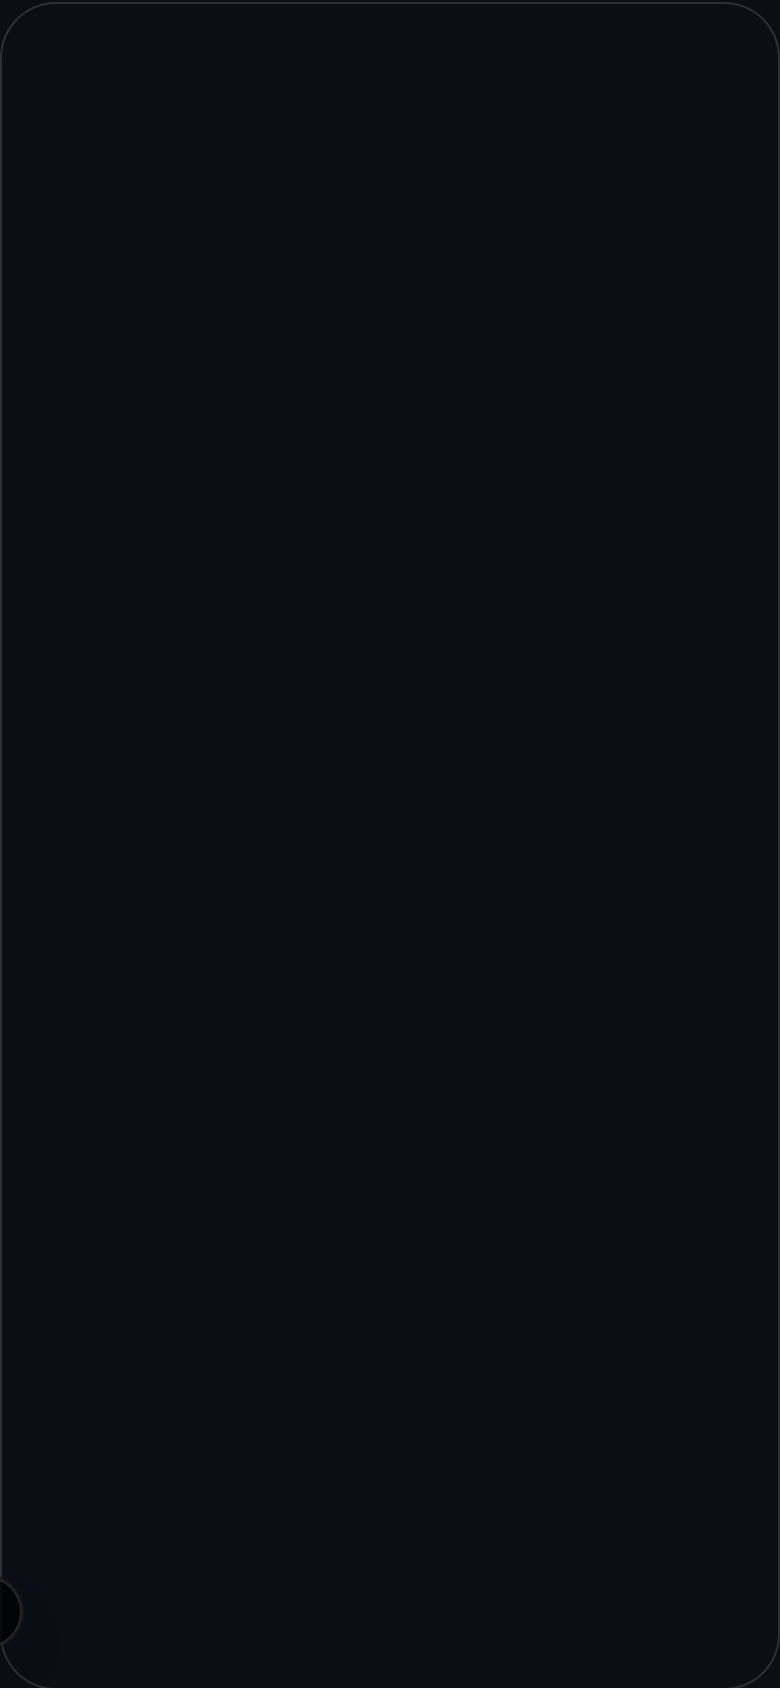
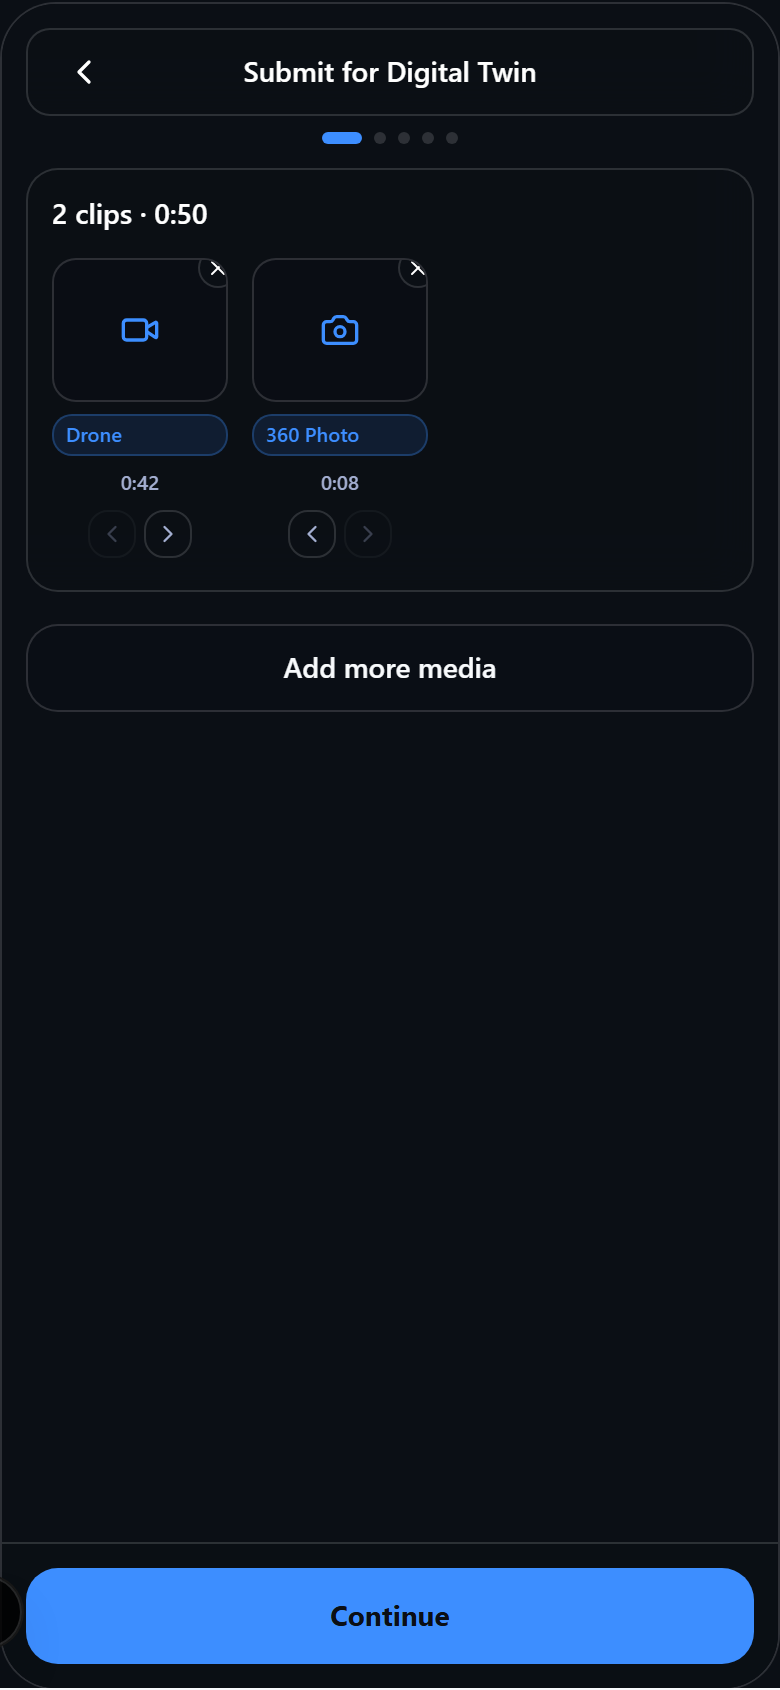
fix(marketing): twin demo shows real UI (review + wizard) not blank frame
Twin recording demo frame was blank (headless has no camera). Switched the twin
walkthrough to the two screens that render clean deterministic UI — submit/review
(clips) and submission wizard (space + credits). Dropped upload frame (dev mock label).

diff --git a/lib/marketing/homepage-content.ts b/lib/marketing/homepage-content.ts
@@ -133,20 +133,14 @@ export const MARKETING_APPS: MarketingAppContent[] = [
       {
         image: "/marketing/demo/twin-1-record.png",
         tapX: 50,
-        tapY: 86,
-        caption: "Record while you walk — the guide keeps you on track",
+        tapY: 90,
+        caption: "Your walk comes in as a 3D scan",
       },
       {
         image: "/marketing/demo/twin-2-ghost.png",
         tapX: 50,
-        tapY: 86,
-        caption: "Add clips — the overlay shows where you left off",
-      },
-      {
-        image: "/marketing/demo/twin-3-review.png",
-        tapX: 50,
-        tapY: 92,
-        caption: "Create the twin — we'll tell you when it's ready",
+        tapY: 88,
+        caption: "Organize it and submit — your credits are shown up front",
       },
     ],
     cta: { label: "Try Twin 360 free", href: "/signup?plan=twin-360-essential" },